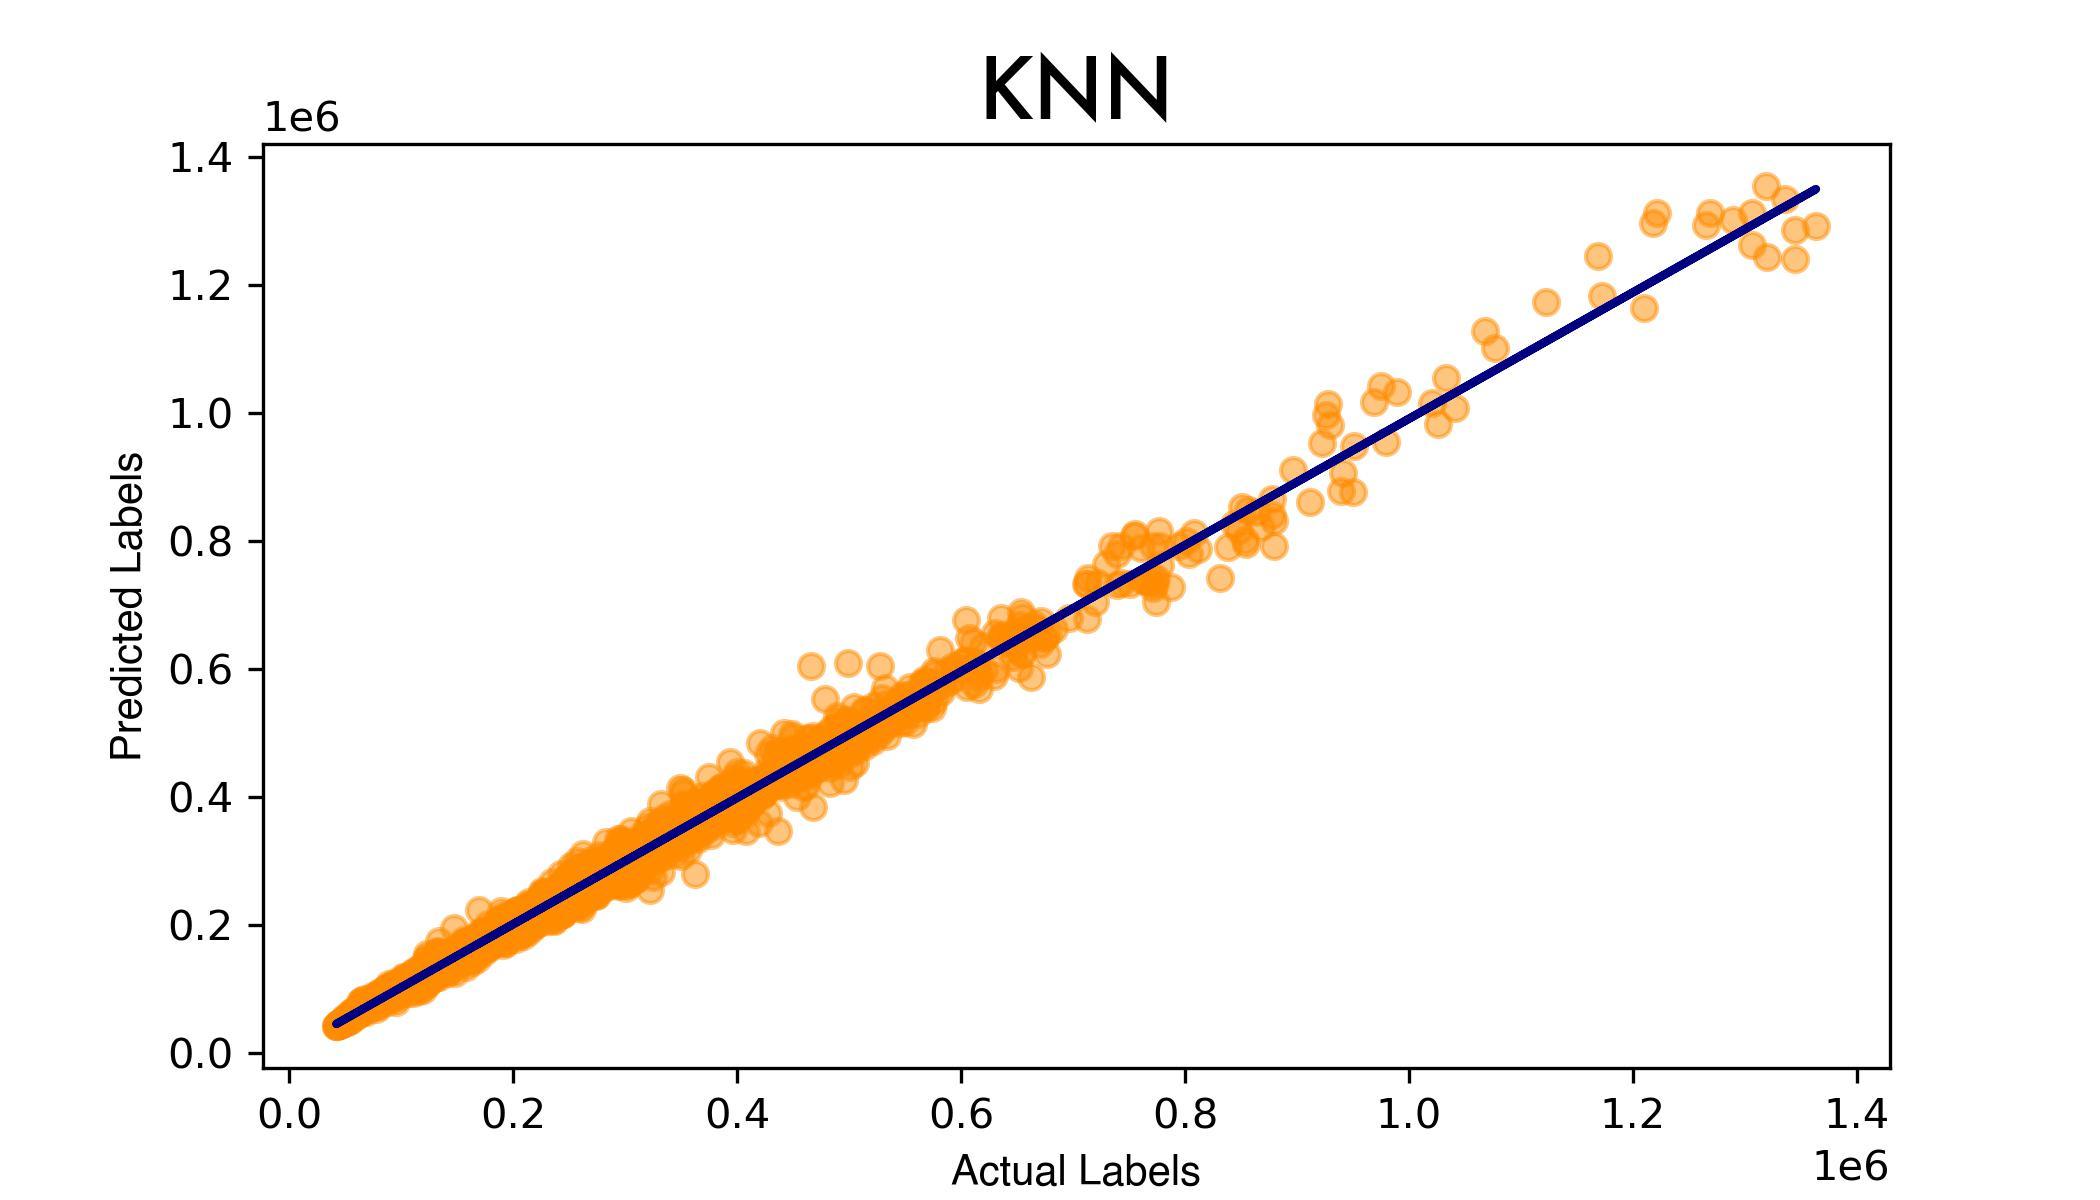
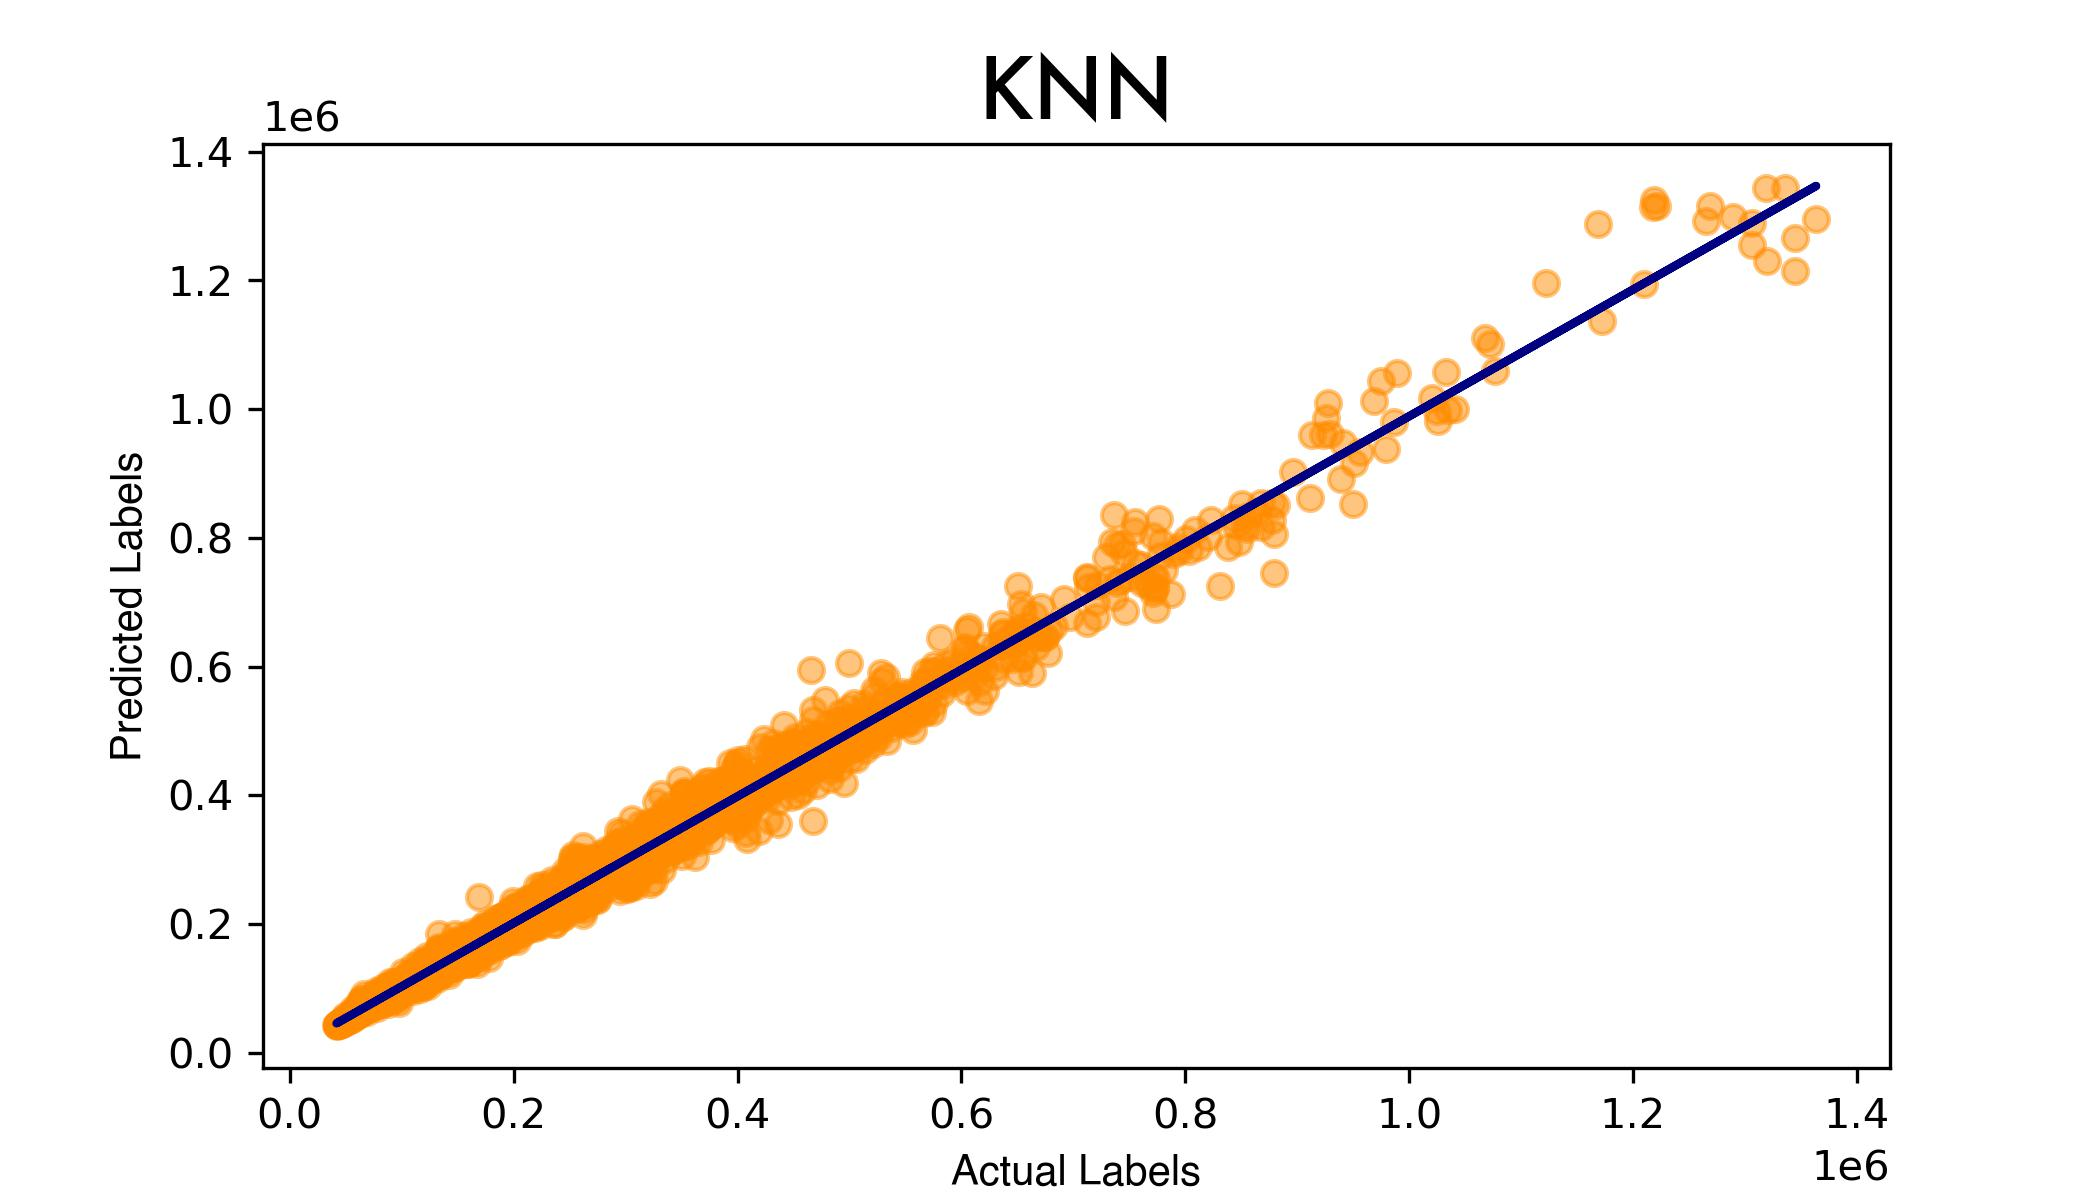
Minor changes

diff --git a/housing.py b/housing.py
@@ -1,23 +1,25 @@
 ## Author: Thijs Verreck
 ## Importing all the necessary libraries
 
-import numpy as np
-import pandas as pd
-from pandas.plotting import scatter_matrix
-import geopandas as gpd
+import numpy as np # For the linear algebra
+import pandas as pd # Pandas, what else? 
+from pandas.plotting import scatter_matrix # For the scatter matrix 
 import matplotlib.pyplot as plt
 # Set the fonts for the plots
+# If you dont have the fonts installed, you can replace them with any other font you have installed. 
 bodyfont = {'fontname':'Helvetica'} # Body font 
-titlefont = {'fontname':'Futura'} # Title font
+titlefont = {'fontname':'Futura'} # Title font (Futura is a premium font, you can comment this line and uncomment the next line if you dont have it installed)
+# titlefont = {'fontname':'Helvetica'} # Uncomment this line if you dont have the Futura font installed 
 
-import seaborn as sns
+import seaborn as sns # For the heatmap
 from IPython.display import HTML
-import warnings
+import warnings 
 warnings.filterwarnings('ignore') # get rid of annoying warnings
-import plotly.express as px
-import geopandas as gpd
+import plotly.express as px # For the interactive map, allows you to zoom in and out (and export to JSON)
+import geopandas as gpd # For the map
 
 # Importing the necessary libraries for the machine learning part
+# Most come from the scikit-learn library
 from sklearn.model_selection import GridSearchCV
 from  sklearn.model_selection import train_test_split 
 from sklearn.model_selection import GridSearchCV
@@ -54,7 +56,7 @@ london_monthly_zero = pd.concat([london_monthly_zero, percent], axis = 1, keys =
 print ('These columns have missing data: ')
 london_monthly_zero.head()
 
-# get rid off the 'no_of_crimes' column
+# get rid off the 'no_of_crimes' column, because it has too many missing values
 london_monthly.drop('no_of_crimes', axis = 1, inplace = True)   
 
 # Fill the missing values in the 'houses_sold' column with the mean of the area
@@ -76,15 +78,15 @@ london_boroughs = london_monthly[london_monthly['borough_flag'] == 1]['area'].un
 len(london_boroughs)
 
 # What are 33 London boroughs? Let's print them with a loop. 
-for i, name in enumerate(london_boroughs):
-  print(i+1,':', name)
+for i, borough in enumerate(london_boroughs):
+  print(i+1,':', borough)
 
 # Let's also check the areas that are not London boroughs
 print(london_monthly[london_monthly['borough_flag'] == 0]['area'].nunique()) 
 print(london_monthly[london_monthly['borough_flag'] == 0]['area'].unique())
 
 # Let's get rid of the non-english regions. 
-england_regions = ['south west', 'south east', 'east of england', 'west midlands', 'east midlands', 'yorks and the humber', 'north west', 'north east']
+england_regions = ['east midlands', 'yorks and the humber', 'south west', 'south east', 'east of england', 'west midlands', 'north west', 'north east']
 london = london_monthly[london_monthly['area'].isin(london_boroughs)]
 england = london_monthly[london_monthly['area'].isin(england_regions)]
 
@@ -307,6 +309,8 @@ london_total.head()
 corr_table = london_total.corr()
 corr_table['average_price'].sort_values(ascending = False)
 
+# Creating a heatmap of the correlations
+
 plt.figure(figsize = (15, 11))
 
 mask = np.triu(np.ones_like(corr_table, dtype = np.bool))
@@ -318,6 +322,8 @@ htmap.set_yticklabels(htmap.get_yticklabels(), rotation = 0, horizontalalignment
 bottom, top = htmap.get_ylim()
 htmap.set_ylim(bottom + 0.5, top - 0.5);
 
+# Saving the heatmap, with 300 dpi. This argument is optional, but it will make the image look better.
+
 plt.savefig('heatmap_of_pairwise_corr.jpg', dpi=300) 
 
 columns = ['average_price', 'median_salary', 'mean_salary', 'number_of_jobs']
@@ -328,7 +334,7 @@ scatter_matrix(london_total[columns], figsize = (15, 15), color = '#D52B06', alp
 ## ML modelling 
 # Preprocessing data
 
-def preprocessing_data(df = london_monthly, training_size = 0.8):
+def preprocessing_data(df = london_monthly, training_size = 0.75):
   # Drop unneccessary features
   df_predict = df.drop(columns =['code','houses_sold','borough_flag'])
 
@@ -363,26 +369,27 @@ x_train, x_test, y_train, y_test = preprocessing_data()
 
 
 ## K-Nearest Neighbours
+# KNN is a non-parametric method used for classification and regression.
 knn = KNeighborsRegressor()
-parameters = {'n_neighbors' : [2, 3, 5, 7],
+parameters = {'n_neighbors' : [2, 4, 6, 8], 
                'algorithm': ['auto', 'ball_tree', 'kd_tree', 'brute'] ,
                }
 
 grid_knn = GridSearchCV(estimator= knn, param_grid = parameters, cv = 3, n_jobs=-1)
 grid_knn.fit(x_train, y_train)
 
-# Print Best hyperparameters
+# Print the best hyperparameters:
 print(" Results from Grid Search " )
 print("\n The best estimator across ALL searched params:\n",grid_knn.best_estimator_)
 print("\n The best score across ALL searched params:\n",grid_knn.best_score_)
 print("\n The best parameters across ALL searched params:\n",grid_knn.best_params_)
 
 
-# Fitting with best params
+# Fitting with parameters
 knn_ft = grid_knn.best_estimator_
 knn_ft.fit(x_train, y_train)
 
-
+# Printing the results
 predictions = knn_ft.predict(x_test)
 mse = mean_squared_error(y_test, predictions)
 print("MSE:", mse)
@@ -406,6 +413,7 @@ plt.savefig('knn.jpg', dpi=300)
 plt.show()
 
 # Plot KNN learning curve
+# I use the sklearn learning curve function to plot the learning curve: 
 train_sizes, train_scores, test_scores = learning_curve(
     estimator=knn_ft, X=x_train, y=y_train, cv=5, n_jobs=-1,
     train_sizes=np.linspace(0.1, 1.0, 10), scoring='neg_mean_squared_error')
@@ -429,7 +437,7 @@ plt.show()
 
 
 ## LightGBM
-
+# LightGBM is a gradient boosting framework that uses tree based learning algorithms.
 lgbm = LGBMRegressor()
 parameters = {'boosting_type' : ['gbdt', "dart", 'goss'],
                'learning_rate': [0.01, 0.03, 0.1] ,
@@ -438,7 +446,7 @@ parameters = {'boosting_type' : ['gbdt', "dart", 'goss'],
 grid_lgbm = GridSearchCV(estimator=lgbm, param_grid = parameters, cv = 3, n_jobs=-1)
 grid_lgbm.fit(x_train, y_train)
 
-# Print Best hyperparameters
+# Print the best hyperparameters:
 print(" Results from Grid Search " )
 print("\n The best estimator across ALL searched params:\n",grid_lgbm.best_estimator_)
 print("\n The best score across ALL searched params:\n",grid_lgbm.best_score_)
@@ -447,6 +455,7 @@ print("\n The best parameters across ALL searched params:\n",grid_lgbm.best_para
 lgbm_ft = grid_lgbm.best_estimator_
 lgbm_ft.fit(x_train, y_train)
 
+# Printing the results
 predictions = lgbm_ft.predict(x_test)
 mse = mean_squared_error(y_test, predictions)
 print("MSE:", mse)
@@ -461,6 +470,7 @@ plt.scatter(y_test, predictions, color = 'darkorange', alpha=0.5)
 plt.xlabel('Actual Labels', **bodyfont)
 plt.ylabel('Predicted Labels', **bodyfont)
 plt.title('LGBM', fontsize= 20, **titlefont)
+
 # overlay the regression line
 z = np.polyfit(y_test, predictions, 1)
 p = np.poly1d(z)
@@ -469,8 +479,8 @@ plt.savefig('lgbm.jpg', dpi=300)
 plt.show()
 
 
-# Plot LGBM learning curve
-
+## Plot LGBM learning curve
+# I use the sklearn learning curve function to plot the learning curve:
 train_sizes, train_scores, test_scores = learning_curve(
     estimator=lgbm_ft, X=x_train, y=y_train, cv=5, n_jobs=-1,
     train_sizes=np.linspace(0.1, 1.0, 10), scoring='neg_mean_squared_error')
@@ -480,6 +490,7 @@ train_scores_std = np.std(train_scores, axis=1)
 test_scores_mean = np.mean(test_scores, axis=1)
 test_scores_std = np.std(test_scores, axis=1)
 
+# Creating the plot | learning curve
 plt.figure(figsize=(7, 4))
 plt.fill_between(train_sizes, train_scores_mean - train_scores_std, train_scores_mean + train_scores_std, alpha=0.1, color="steelblue")
 plt.fill_between(train_sizes, test_scores_mean - test_scores_std, test_scores_mean + test_scores_std, alpha=0.1, color="orange")
@@ -494,22 +505,27 @@ plt.show()
 
 
 ## Random Forest
+# Random Forest is an algorithm that is build on multiple decision trees. It can be used both for classification and regression problems.
+
 rfm = RandomForestRegressor()
-parameters = {    'n_estimators' : [None, 100 , 500, 1000],
+parameters = {    'n_estimators' : [None, 100 , 500, 1000], 
                   'max_depth'    : [2, 3, 5, None]
                  }
 
 grid_rfm = GridSearchCV(estimator=rfm, param_grid = parameters, cv = 3, n_jobs=-1)
 grid_rfm.fit(x_train, y_train)
 
+# Print the best hyperparameters:
 print(" Results from Grid Search " )
 print("\n The best estimator across ALL searched params:\n",grid_rfm.best_estimator_)
 print("\n The best score across ALL searched params:\n",grid_rfm.best_score_)
 print("\n The best parameters across ALL searched params:\n",grid_rfm.best_params_)
 
+# Fit the model with the best hyperparameters
 rfm_ft = grid_rfm.best_estimator_
 rfm_ft.fit(x_train, y_train)
 
+# Printing the results
 predictions = rfm_ft.predict(x_test)
 mse = mean_squared_error(y_test, predictions)
 print("MSE:", mse)
@@ -531,8 +547,8 @@ plt.plot(y_test,p(y_test), color='navy', linewidth=2, label='Regression Line')
 plt.savefig('random_forest.jpg', dpi=300) 
 plt.show()
 
-# Plot Random Forest learning curve
-
+## Plot Random Forest learning curve
+# Same here as above, I use the sklearn learning curve function to plot the learning curve: 
 train_sizes, train_scores, test_scores = learning_curve(
     estimator=rfm_ft, X=x_train, y=y_train, cv=5, n_jobs=-1,
     train_sizes=np.linspace(0.1, 1.0, 10), scoring='neg_mean_squared_error')
@@ -542,6 +558,8 @@ train_scores_std = np.std(train_scores, axis=1)
 test_scores_mean = np.mean(test_scores, axis=1)
 test_scores_std = np.std(test_scores, axis=1)
 
+
+# Creating the plot | learning curve 
 plt.figure(figsize=(7, 4))
 plt.fill_between(train_sizes, train_scores_mean - train_scores_std, train_scores_mean + train_scores_std, alpha=0.1, color="steelblue")
 plt.fill_between(train_sizes, test_scores_mean - test_scores_std, test_scores_mean + test_scores_std, alpha=0.1, color="orange")
